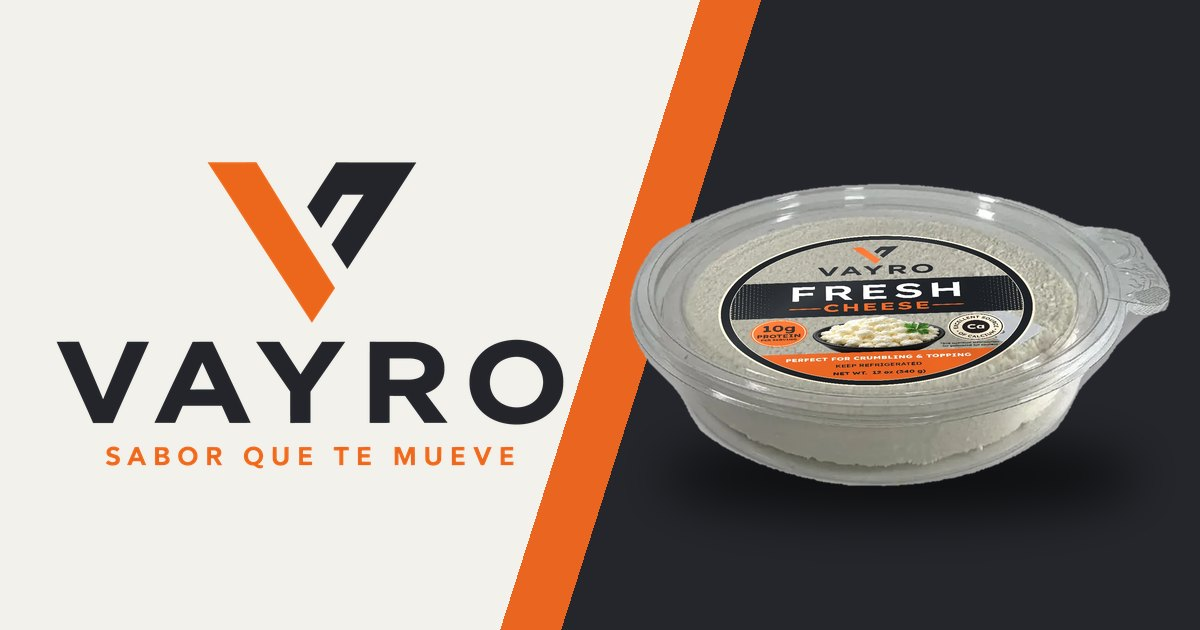
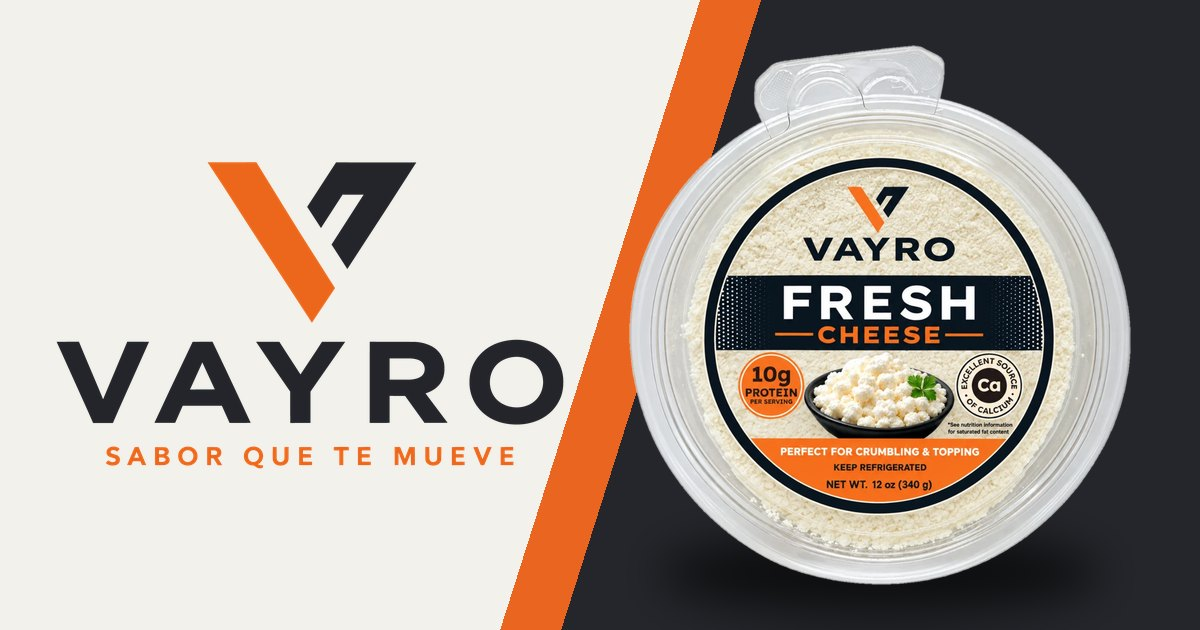
VAYRO catalog: official product photos, Fresh Cheese with Banana Leaf and Basket Cheese
Fresh Cheese uses the new official render. New products: Fresh Cheese with Banana
Leaf (12 oz, 14 oz, 5 lb) and Basket Cheese (14 lb). Products with only
front-of-pack claims show those and point to the package for the full panel
instead of inventing values; the nutrition calculator lists only products with
a full panel. Share image updated.

Claude-Session: https://claude.ai/code/session_014ZSnP4gQvfHZAqQijmKCgJ

Changed region(s): [[0.5242, 0.0603, 0.9867, 0.9349]]

diff --git a/vayro-web/src/main.js b/vayro-web/src/main.js
@@ -278,6 +278,9 @@ function manifesto() {
 }
 
 /* ═════════ Products ═════════ */
+// Some products only have their front-of-pack claims so far; their full panel is on the package.
+const hasPanel = (p) => p.nf.calories !== undefined;
+
 function productCards() {
   const cards = products
     .map((p) => {
@@ -293,8 +296,8 @@ function productCards() {
         <p class="pcard__line">${tx(p.line)}</p>
         <div class="pcard__facts">
           <div><b class="o">${p.nf.protein}g</b><span>${t('protein')}</span></div>
-          <div><b>${p.nf.calcium}%</b><span>${t('calcium')}</span></div>
-          <div><b>${p.nf.calories}</b><span>kcal</span></div>
+          ${p.nf.calcium != null ? `<div><b>${p.nf.calcium}%</b><span>${t('calcium')}</span></div>` : `<div><b>Ca</b><span>${t('caShort')}</span></div>`}
+          ${hasPanel(p) ? `<div><b>${p.nf.calories}</b><span>kcal</span></div>` : `<div><b>${s.label}</b><span>${t('size')}</span></div>`}
         </div>
         <span class="pcard__more">${t('details')}<i>→</i></span>
       </button>`;
@@ -375,8 +378,8 @@ function openDrawer(id, sizeId) {
     <div class="tabpane" data-pane="o">
       <div class="kpis">
         <div><b>${n.protein}g</b><span>${t('protein')} ${t('perServing')}</span></div>
-        <div><b>${n.calcium}%</b><span>${t('calcium')}</span></div>
-        <div><b>${n.addedSugars[0]}</b><span>${t('addedShort')}</span></div>
+        ${n.calcium != null ? `<div><b>${n.calcium}%</b><span>${t('calcium')}</span></div>` : `<div><b>Ca</b><span>${t('caSource')}</span></div>`}
+        ${hasPanel(p) ? `<div><b>${n.addedSugars[0]}</b><span>${t('addedShort')}</span></div>` : `<div><b>${s.label}</b><span>${t('size')}</span></div>`}
       </div>
       <p>${tx(p.desc)}</p>
       <p class="dsub">${t('pairs')}</p>
@@ -384,7 +387,7 @@ function openDrawer(id, sizeId) {
       ${related.length ? `<p class="dsub">${t('recipes')}</p>${related.map((r) => `<button class="rmade" type="button" data-recipe="${r.id}"><img src="${r.img}" alt="" style="object-fit:cover;border-radius:12px" /><span><b>${tx(r.title)}</b><span>${r.time} ${t('min')}</span></span></button>`).join('')}` : ''}
     </div>
     <div class="tabpane" data-pane="n" hidden>
-      <div class="nf">
+      ${hasPanel(p) ? `<div class="nf">
         <h4>${t('nutritionFacts')}</h4>
         <div class="bar-m" style="padding:4px 0 6px;font-size:14px">${s.servings} ${t('servingsPer')}<br /><b>${t('servingSize')}</b> <b style="float:right">${p.serving}</b></div>
         <div class="bar-l"></div>
@@ -403,11 +406,11 @@ function openDrawer(id, sizeId) {
         <div class="bar-l">${row(`<b>${t('proteinNF')}</b>`, `${n.protein}g`)}</div>
         <div class="row">${t('vitD')} ${n.vitD}% · ${t('calciumNF')} ${n.calcium}% · ${t('iron')} ${n.iron}% · ${t('potassium')} ${n.potassium}%</div>
         <div class="row small">* ${lang === 'es' ? 'El % de Valor Diario indica cuánto aporta un nutriente en una porción a una dieta diaria. Se usan 2,000 calorías al día como consejo general de nutrición.' : 'The % Daily Value tells you how much a nutrient in a serving of food contributes to a daily diet. 2,000 calories a day is used for general nutrition advice.'}</div>
-      </div>
+      </div>` : `<p class="ingr">${fill(t('nfOnPack'), { protein: n.protein })}</p>`}
     </div>
     <div class="tabpane" data-pane="i" hidden>
-      <p class="ingr"><b>${lang === 'es' ? 'Ingredientes (como aparecen en la etiqueta)' : 'Ingredients'}:</b> ${p.ingredients}</p>
-      <span class="contains">${t('contains')}: ${p.contains}</span>
+      ${p.ingredients ? `<p class="ingr"><b>${lang === 'es' ? 'Ingredientes (como aparecen en la etiqueta)' : 'Ingredients'}:</b> ${p.ingredients}</p>
+      <span class="contains">${t('contains')}: ${p.contains}</span>` : `<p class="ingr">${t('ingrOnPack')}</p>`}
       <p class="ingr" style="margin-top:16px">${t('keepCold')}</p>
     </div>
     <div class="dactions">
@@ -481,6 +484,7 @@ function layers() {
 let calcId = products[0].id;
 function calc() {
   $('#calcProducts').innerHTML = products
+    .filter(hasPanel)
     .map((p) => `<button type="button" role="radio" aria-checked="${p.id === calcId}" data-calc="${p.id}">${tx(p.name)}</button>`)
     .join('');
   $$('[data-calc]').forEach((b) =>

diff --git a/vayro-web/src/data.js b/vayro-web/src/data.js
@@ -48,6 +48,33 @@ export const products = [
     pairs: { en: ['Power bowls', 'Eggs & toast', 'Salads', 'Roasted veggies'], es: ['Power bowls', 'Huevos y pan tostado', 'Ensaladas', 'Verduras asadas'] },
   },
   {
+    id: 'fresh-leaf',
+    family: 'fresh',
+    name: { en: 'Fresh Cheese with Banana Leaf', es: 'Queso Fresco con Hoja de Plátano' },
+    line: { en: 'Soft, fresh, wrapped in leaf.', es: 'Suave, fresco, envuelto en hoja.' },
+    use: { en: 'Traditional flavor with a fresh, soft and crumbly texture', es: 'Sabor tradicional con textura fresca, suave y desmoronable' },
+    desc: {
+      en: 'Our fresh cheese, rested on banana leaf for a delicate, natural aroma. Soft enough to crumble, firm enough to slice, with 10g of protein per serving.',
+      es: 'Nuestro queso fresco, reposado sobre hoja de plátano para un aroma delicado y natural. Lo bastante suave para desmoronar y firme para rebanar, con 10 g de proteína por porción.',
+    },
+    accent: '#EA6620',
+    sizes: [
+      { id: 'fresh-leaf-12', label: '12 oz', grams: '340 g', img: 'img/products/fresh-leaf-12.webp', servings: 6, channel: 'retail' },
+      { id: 'fresh-leaf-14', label: '14 oz', grams: '396 g', img: 'img/products/fresh-leaf-14.webp', servings: 7, channel: 'retail' },
+      { id: 'fresh-leaf-80', label: '5 lb', grams: '80 oz', img: 'img/products/fresh-leaf-5lb.webp', servings: 40, channel: 'foodservice' },
+    ],
+    serving: '2 oz (56.8 g)',
+    // CONFIRM: same panel as VAYRO Fresh Cheese (matches the legible values on the 12 oz label).
+    nf: {
+      calories: 180, fat: ['14g', 18], satFat: ['9g', 45], transFat: '0g', cholesterol: ['30mg', 10], sodium: ['470mg', 20],
+      carbs: ['4g', 1], fiber: ['0g', 0], sugars: '0g', addedSugars: ['0g', 0], protein: 10,
+      vitD: 2, calcium: 25, iron: 0, potassium: 0,
+    },
+    ingredients: 'Pasteurized Milk, Nonfat Dry Milk, Palm Oil, Salt, Acetic Acid, Culture, Enzymes, Natamycin, and Sorbic Acid (mold inhibitor).',
+    contains: 'Milk & Soy',
+    pairs: { en: ['Breakfast plates', 'Salads', 'Grilled vegetables', 'Fruit & honey'], es: ['Desayunos', 'Ensaladas', 'Verduras asadas', 'Fruta con miel'] },
+  },
+  {
     id: 'oaxaca',
     family: 'melt',
     name: { en: 'Oaxaca Cheese', es: 'Queso Oaxaca' },
@@ -94,6 +121,26 @@ export const products = [
     ingredients: 'Pasteurized Milk, Nonfat Dry Milk, Salt, Enzymes, Natamycin, and Sorbic Acid (mold inhibitor).',
     contains: 'Milk & Soy',
     pairs: { en: ['Grill & skewers', 'Meal prep', 'Sandwiches', 'Snack plates'], es: ['Parrilla y brochetas', 'Meal prep', 'Sándwiches', 'Tablas de snack'] },
+  },
+  {
+    id: 'basket',
+    family: 'slice',
+    name: { en: 'Basket Cheese', es: 'Queso Canasta' },
+    line: { en: 'One wheel. Every meal.', es: 'Una rueda. Todas las comidas.' },
+    use: { en: 'Perfect for slicing, crumbling and everyday meals', es: 'Perfecto para rebanar, desmoronar y las comidas de todos los días' },
+    desc: {
+      en: 'A big fresh-cheese wheel with the classic basket-weave pattern. Slices clean, crumbles easily and feeds a full kitchen, with 9g of protein per serving.',
+      es: 'Una rueda grande de queso fresco con el clásico tejido de canasta. Se rebana limpio, se desmorona fácil y rinde para toda una cocina, con 9 g de proteína por porción.',
+    },
+    accent: '#EA6620',
+    sizes: [{ id: 'basket-224', label: '14 lb', grams: '224 oz', img: 'img/products/basket.webp', servings: null, channel: 'foodservice' }],
+    serving: null,
+    // CONFIRM: only the front-of-pack claims are known (9g protein, excellent source of calcium).
+    // Add the full panel and ingredients from the label to show them on the site.
+    nf: { protein: 9, calcium: null },
+    ingredients: null,
+    contains: null,
+    pairs: { en: ['Sandwiches', 'Platters', 'Salads', 'Family meals'], es: ['Sándwiches', 'Tablas', 'Ensaladas', 'Comidas familiares'] },
   },
   {
     id: 'frying',

diff --git a/vayro-web/src/i18n.js b/vayro-web/src/i18n.js
@@ -168,7 +168,12 @@ export const UI = {
     sugars: 'Total Sugars',
     added: 'Includes {x} Added Sugars',
     addedShort: 'added sugar',
-    fam: { fresh: 'Crumble & top', melt: 'Melt & cook', sear: 'Sear & grill' },
+    caSource: 'excellent source of calcium',
+    caShort: 'calcium',
+    size: 'size',
+    nfOnPack: 'The full Nutrition Facts panel is printed on the package. Every serving has {protein}g of protein and is an excellent source of calcium.',
+    ingrOnPack: 'The full ingredient list is printed on the package.',
+    fam: { fresh: 'Crumble & top', melt: 'Melt & cook', sear: 'Sear & grill', slice: 'Slice & share' },
     proteinNF: 'Protein',
     vitD: 'Vitamin D',
     calciumNF: 'Calcium',
@@ -228,7 +233,12 @@ export const UI = {
     sugars: 'Azúcares totales',
     added: 'Incluye {x} de azúcares añadidos',
     addedShort: 'azúcar añadida',
-    fam: { fresh: 'Desmorona y corona', melt: 'Funde y cocina', sear: 'Dora y asa' },
+    caSource: 'excelente fuente de calcio',
+    caShort: 'calcio',
+    size: 'presentación',
+    nfOnPack: 'La tabla nutrimental completa viene impresa en el empaque. Cada porción tiene {protein} g de proteína y es excelente fuente de calcio.',
+    ingrOnPack: 'La lista completa de ingredientes viene impresa en el empaque.',
+    fam: { fresh: 'Desmorona y corona', melt: 'Funde y cocina', sear: 'Dora y asa', slice: 'Rebana y comparte' },
     proteinNF: 'Proteína',
     vitD: 'Vitamina D',
     calciumNF: 'Calcio',

diff --git a/vayro-web/index.html b/vayro-web/index.html
@@ -92,7 +92,7 @@
         <div class="hero__product" aria-hidden="true">
           <div class="hero__ring"></div>
           <div class="lid" id="heroLid">
-            <img src="img/products/fresh.webp" alt="" width="1448" height="834" />
+            <img src="img/products/fresh.webp" alt="" width="1277" height="1371" />
           </div>
           <div class="chip chip--a"><b>10g</b><span data-i18n="hero.chipA">protein / serving</span></div>
           <div class="chip chip--b"><b>Ca</b><span data-i18n="hero.chipB">excellent source of calcium</span></div>
